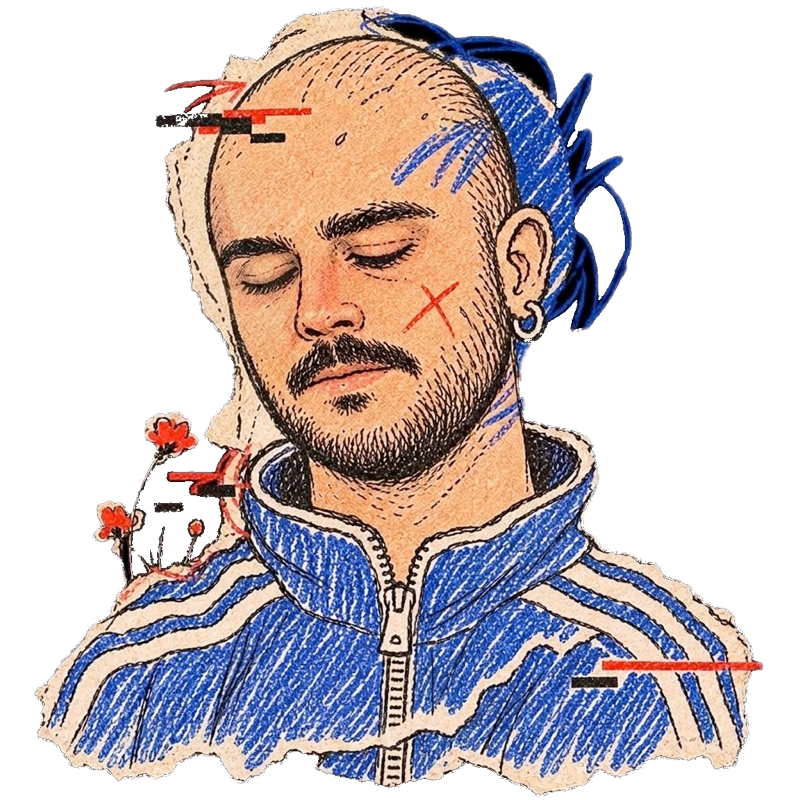
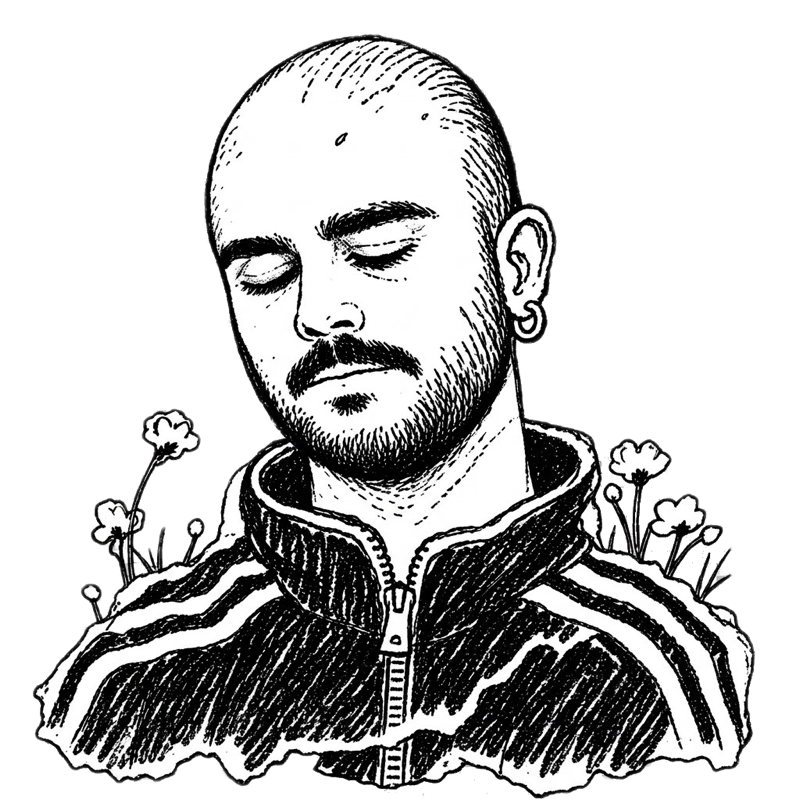
Foto definitiva en blanco y negro y Spotify a «Ding Dong Piro»

diff --git a/index.html b/index.html
@@ -137,7 +137,7 @@
             </g>
           </svg>
         </h1>
-        <img class="photo" src="img/kailkob.png" alt="Retrato dibujado de Kailkob con los ojos cerrados" width="800" height="800" fetchpriority="high">
+        <img class="photo" src="img/kailkob.png?v=2" alt="Retrato dibujado en blanco y negro de Kailkob con los ojos cerrados" width="800" height="800" fetchpriority="high">
       </div>
 
       <div class="side">
@@ -159,7 +159,7 @@
           <svg class="cable" viewBox="0 0 20 100" preserveAspectRatio="none" aria-hidden="true"><path d="M10 0 C2 10 18 18 10 30 C2 42 18 50 10 62 C2 74 18 82 10 94 L10 100"/></svg>
           <ul class="links">
             <li><a href="https://music.apple.com/es/artist/kailkob/1797300511" target="_blank" rel="noopener"><svg viewBox="0 0 24 24" aria-hidden="true"><path d="M16.4 12.7c0-2.3 1.9-3.4 2-3.5-1.1-1.6-2.8-1.8-3.4-1.8-1.4-.1-2.8.9-3.5.9s-1.8-.9-3-.8C7 7.5 5.6 8.4 4.8 9.8c-1.6 2.8-.4 6.9 1.2 9.1.8 1.1 1.7 2.3 2.8 2.3 1.1 0 1.6-.7 3-.7s1.8.7 3 .7c1.2 0 2-1.1 2.8-2.2.9-1.3 1.2-2.5 1.2-2.6 0 0-2.4-.9-2.4-3.7z"/><path d="M14.3 5.8c.6-.8 1-1.8.9-2.8-.9 0-2 .6-2.6 1.4-.6.7-1.1 1.7-.9 2.7 1 .1 2-.5 2.6-1.3z"/></svg><span class="sep"></span>Apple Music<span class="arr" aria-hidden="true">↗</span><span class="sr-only"> (se abre en otra pestaña)</span></a></li>
-            <li><a href="https://open.spotify.com/artist/3jYSHWbpXuVlIcGAhi24lI" target="_blank" rel="noopener"><svg viewBox="0 0 24 24" aria-hidden="true"><circle cx="12" cy="12" r="9.5"/><path d="M7 9.4c3.5-1 7.2-.6 10.2 1M7.6 12.6c2.8-.7 5.8-.4 8.2.9M8.3 15.6c2.2-.5 4.4-.2 6.2.7"/></svg><span class="sep"></span>Spotify<span class="arr" aria-hidden="true">↗</span><span class="sr-only"> (se abre en otra pestaña)</span></a></li>
+            <li><a href="https://open.spotify.com/track/79PaD2x9hSO9Gq6wazTZEY" target="_blank" rel="noopener"><svg viewBox="0 0 24 24" aria-hidden="true"><circle cx="12" cy="12" r="9.5"/><path d="M7 9.4c3.5-1 7.2-.6 10.2 1M7.6 12.6c2.8-.7 5.8-.4 8.2.9M8.3 15.6c2.2-.5 4.4-.2 6.2.7"/></svg><span class="sep"></span>Spotify<span class="arr" aria-hidden="true">↗</span><span class="sr-only"> (se abre en otra pestaña)</span></a></li>
             <li><a href="https://www.youtube.com/watch?v=t5gnp1CU-3Y" target="_blank" rel="noopener"><svg viewBox="0 0 24 24" aria-hidden="true"><rect x="2.5" y="5.5" width="19" height="13" rx="4"/><path d="M10 9.2 L15 12 L10 14.8 Z"/></svg><span class="sep"></span>YouTube<span class="arr" aria-hidden="true">↗</span><span class="sr-only"> (se abre en otra pestaña)</span></a></li>
             <li><a href="https://www.tiktok.com/@kailkob" target="_blank" rel="noopener"><svg viewBox="0 0 24 24" aria-hidden="true"><path d="M13.5 3.5v11.2a3.4 3.4 0 1 1-3.4-3.4"/><path d="M13.5 3.5c.5 2.6 2.4 4.4 5 4.6"/></svg><span class="sep"></span>TikTok<span class="arr" aria-hidden="true">↗</span><span class="sr-only"> (se abre en otra pestaña)</span></a></li>
             <li><a href="https://www.instagram.com/kailkob/" target="_blank" rel="noopener"><svg viewBox="0 0 24 24" aria-hidden="true"><rect x="3.5" y="3.5" width="17" height="17" rx="5"/><circle cx="12" cy="12" r="3.9"/><circle cx="17.1" cy="6.9" r=".6" fill="currentColor"/></svg><span class="sep"></span>Instagram<span class="arr" aria-hidden="true">↗</span><span class="sr-only"> (se abre en otra pestaña)</span></a></li>
